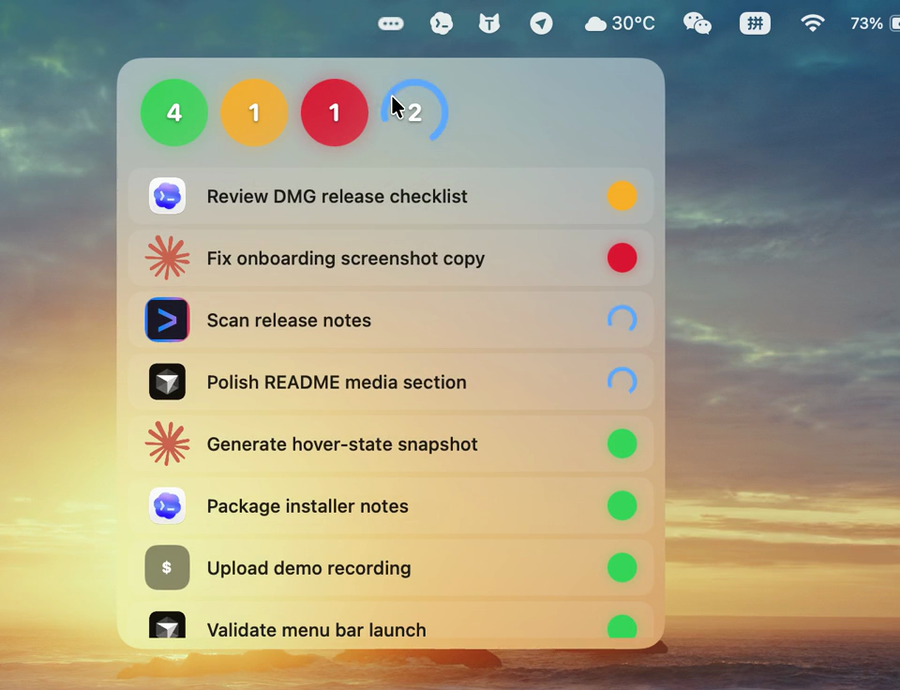
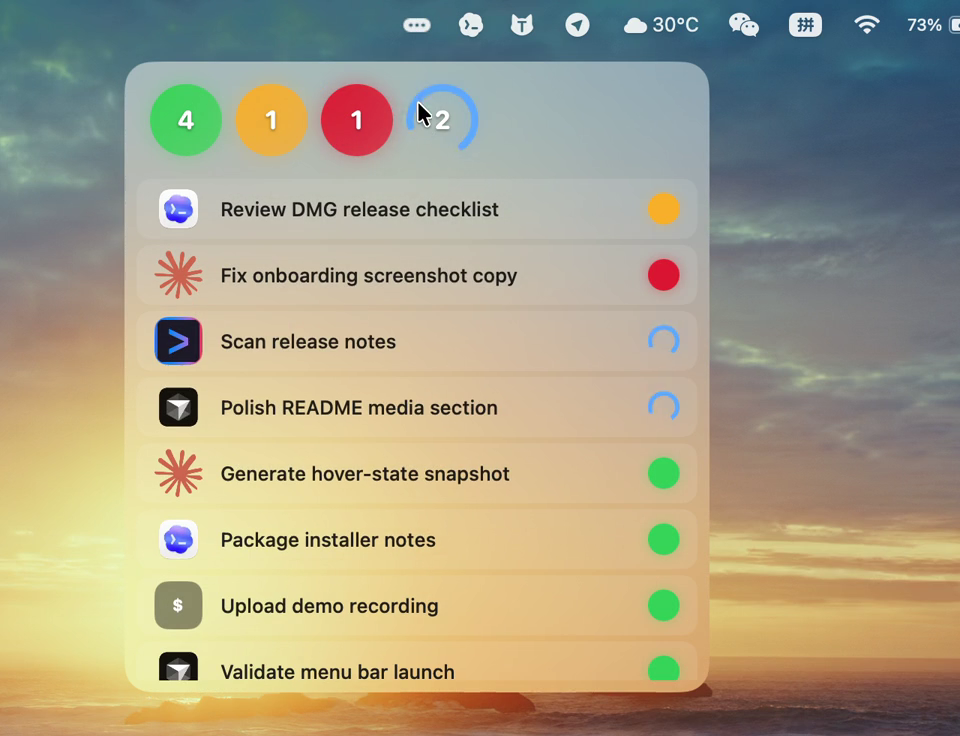
Refine README screenshots and intro copy

Changed region(s): [[0.28, 0.1522, 0.3111, 0.1826]]

diff --git a/README.md b/README.md
@@ -2,7 +2,7 @@
 
 Tiny status lights for your coding agents. ✨
 
-Agent Beacon lives in your macOS menu bar and shows which agent task is done, waiting, failed, or still running.
+Agent Beacon lives in your macOS menu bar, shows which agent task is done, waiting, failed, or still running, and lets you click a row to jump back to the app.
 
 ![Agent Beacon demo](docs/assets/agent-beacon-demo.gif)
 
@@ -16,11 +16,14 @@ Agent Beacon keeps that answer in one quiet menu bar panel:
 completed | needs review | failed | running
 ```
 
-Hover the panel to see the task list. Click a row to jump back to the app.
+Hover the panel to see the task list.
 
 <p align="center">
-  <img src="docs/assets/agent-beacon-menubar-real.png" alt="Agent Beacon in the macOS menu bar" width="340">
-  <img src="docs/assets/agent-beacon-hover-real.png" alt="Agent Beacon expanded panel" width="520">
+  <img src="docs/assets/agent-beacon-menubar-real.png" alt="Agent Beacon in the macOS menu bar" width="760">
+</p>
+
+<p align="center">
+  <img src="docs/assets/agent-beacon-hover-real.png" alt="Agent Beacon expanded panel" width="760">
 </p>
 
 ## ⬇ Download
@@ -43,6 +46,8 @@ This preview DMG is unsigned. If macOS blocks the first launch, right-click `Age
 - Codex local session metadata.
 - Cursor local composer header metadata.
 - Explicit status updates from `~/.agent-beacon/status.json`.
+
+More agent integrations are in progress.
 
 Agent Beacon only shows states it can verify. It does not guess from private app UI.
 
